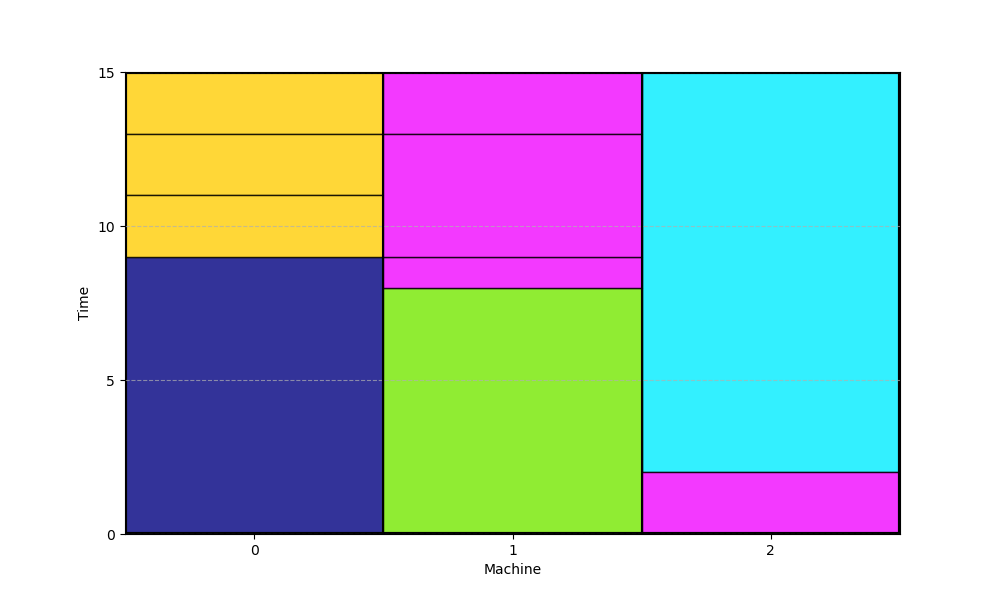
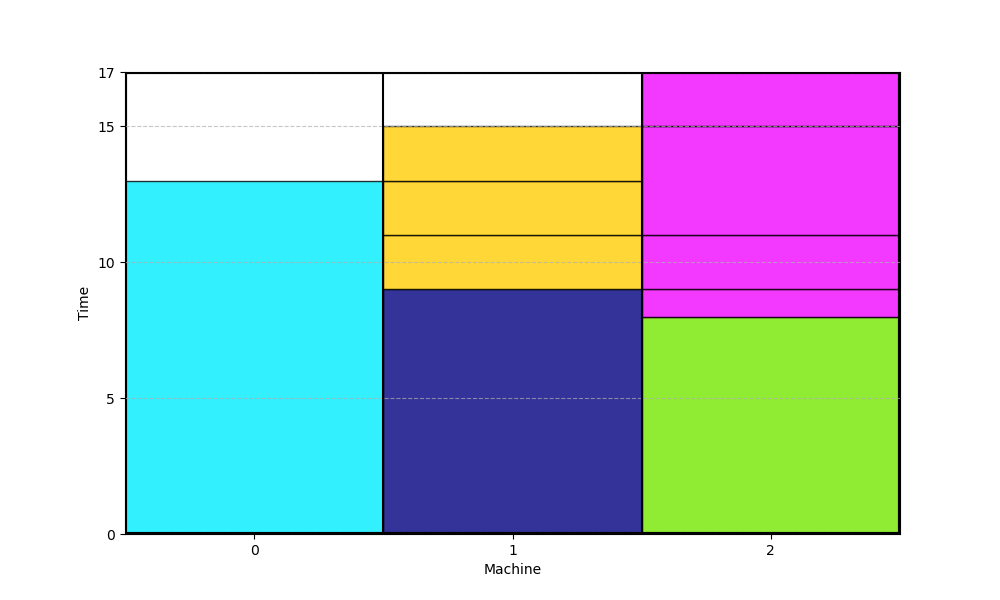
Fixat 5/3-algoritmen och tagit bort onödiga filer

diff --git a/algos/5_over_3.py b/algos/5_over_3.py
@@ -76,7 +76,7 @@ for c in c_2:
         for id in class2ids[c]:
             from_front[i].append(id)
             total_used[i] += job_time[id]
-        if total_used[i] >= T:
+        if total_used[i] > T:
             closed_machines.add(i)
             i += 1
     else:
@@ -122,9 +122,9 @@ for c in c_3:
         from_front[i].append(id)
         total_used[i] += job_time[id]
 
-        if total_used[i] >= T:
-            closed_machines.add(i)
-            i += 1
+    if total_used[i] >= T:
+        closed_machines.add(i)
+        i += 1
 
 
 ## Generate assignments
@@ -141,6 +141,9 @@ for i in range(m):
         machine_assign[id] = i
         time_assign[id] = time - job_time[id]
         time -= job_time[id]
+
+print("Maskintilldelning: ", machine_assign)
+print("Starttider: ", time_assign)
 
 ## Verify possilbility
 for id in range(n):

diff --git a/algos/5_over_3_with_downshift.py b/algos/5_over_3_with_downshift.py
@@ -76,7 +76,7 @@ for c in c_2:
         for id in class2ids[c]:
             from_front[i].append(id)
             total_used[i] += job_time[id]
-        if total_used[i] >= T:
+        if total_used[i] > T:
             closed_machines.add(i)
             i += 1
     else:
@@ -122,9 +122,9 @@ for c in c_3:
         from_front[i].append(id)
         total_used[i] += job_time[id]
 
-        if total_used[i] >= T:
-            closed_machines.add(i)
-            i += 1
+    if total_used[i] >= T:
+        closed_machines.add(i)
+        i += 1
 
 
 ## Generate assignments
@@ -141,7 +141,6 @@ for i in range(m):
         machine_assign[id] = i
         time_assign[id] = time - job_time[id]
         time -= job_time[id]
-
 
 ## Downshift
 order = [i for i in range(n)]

diff --git a/algos/5_over_3_with_enqueue.py b/algos/5_over_3_with_enqueue.py
@@ -122,9 +122,9 @@ for c in c_3:
         from_front[i].append(id)
         total_used[i] += job_time[id]
 
-        if total_used[i] >= T:
-            closed_machines.add(i)
-            i += 1
+    if total_used[i] >= T:
+        closed_machines.add(i)
+        i += 1
 
 
 ## Generate assignments

diff --git a/utils/visualize_by_time_machine.py b/utils/visualize_by_time_machine.py
@@ -97,6 +97,6 @@ ax.set_ylim(0, last_end_time)
 
 plt.grid(axis="y", linestyle="--", alpha=0.7)
 
-plt.savefig("imgs/5_3_enqueue.png")
+plt.savefig("imgs/senast_genererade_bilden.png")
 plt.show()
 
